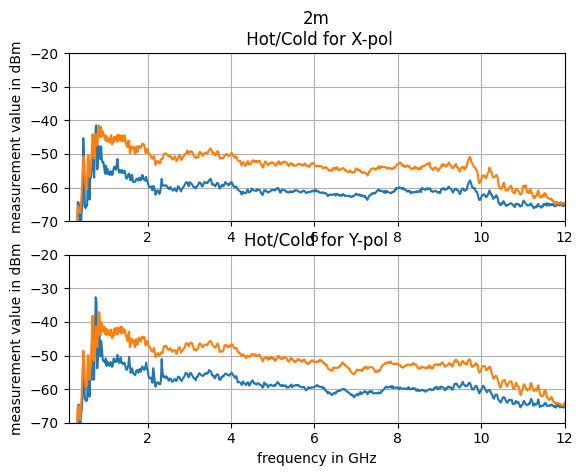
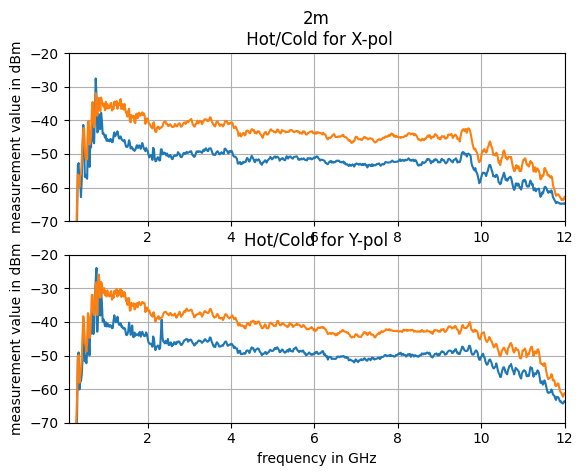
added pam degisgn files

Changed region(s): [[0.1235, 0.5588, 0.988, 0.8824], [0.1235, 0.1765, 0.988, 0.4706]]

diff --git a/Antonio-Feed/System_Temp_Measurements/Antennas/Tsys_Fieldfox_fiber_one.py b/Antonio-Feed/System_Temp_Measurements/Antennas/Tsys_Fieldfox_fiber_one.py
@@ -4,8 +4,8 @@ import pandas as pd
 
 t_hot = 290
 t_cold = 12
-ant = '2e'
-nm = '2'
+ant = '2m'
+nm = '1'
 
 
 cold_l_ing = np.zeros((801), dtype=float)
